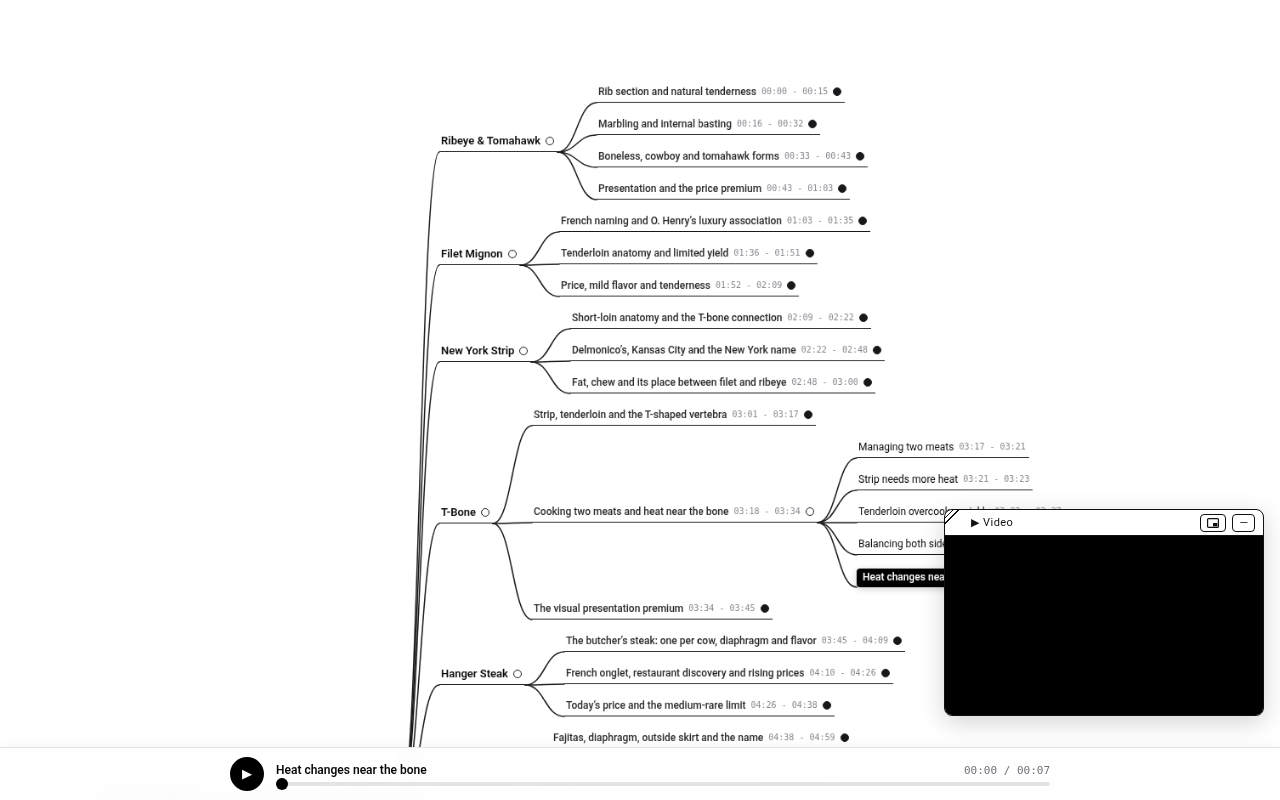
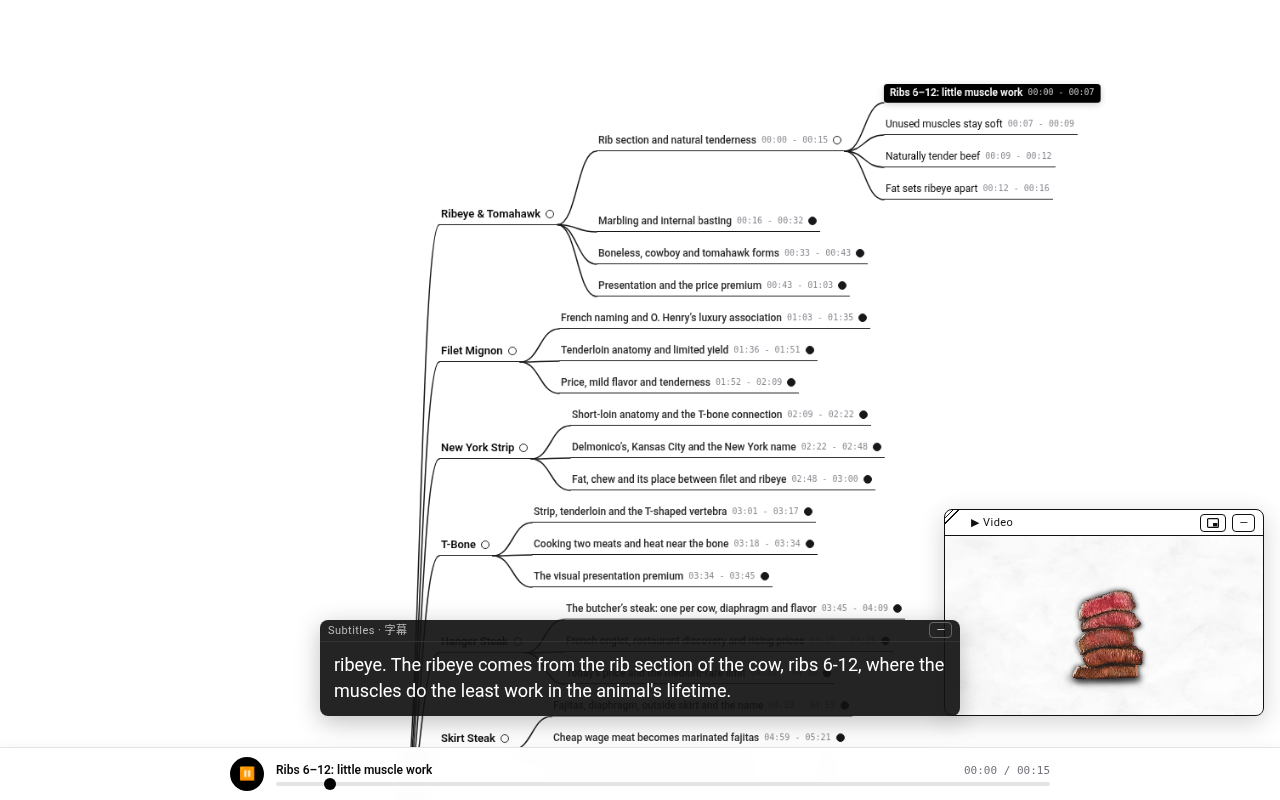
Seamless per-topic playback + subtitle window (page)

Changed region(s): [[0.1875, 0.0938, 1.0, 1.0]]

diff --git a/index.html b/index.html
@@ -310,6 +310,15 @@
   </div>
 
   <!-- Ultra-Minimalist Player Bar -->
+<style>
+.subbox{position:fixed;left:16px;bottom:84px;width:min(560px,calc(100vw - 32px));z-index:61;background:rgba(17,17,17,.92);color:#fff;border-radius:8px;box-shadow:0 6px 24px rgba(0,0,0,.25);touch-action:none;user-select:none}
+.subbox .sb{display:flex;align-items:center;height:22px;padding:0 8px;font-size:11px;letter-spacing:.04em;color:#bbb;cursor:move;border-bottom:1px solid #333}
+.subbox .sb span{flex:1}.subbox .sb button{background:none;border:1px solid #666;color:#ddd;border-radius:4px;font-size:11px;height:16px;line-height:14px;padding:0 6px;cursor:pointer}
+.subbox #subText{padding:10px 14px 12px;font-size:18px;line-height:1.45;min-height:1.45em;user-select:text}
+.subbox.min #subText{display:none}
+@media (max-width:640px){.subbox #subText{font-size:15px}}
+</style>
+<div class="subbox" id="subBox"><div class="sb" id="subBar"><span>Subtitles · 字幕</span><button id="subMin">—</button></div><div id="subText"></div></div>
     <div class="pip" id="pip">
     <div class="pip-rz" id="pipRz" title="Drag to resize"></div><div class="pip-bar" id="pipBar"><span class="t">▶ Video</span>
       <button id="pipNative" title="Browser picture-in-picture"><svg width="12" height="10" viewBox="0 0 12 10" fill="none" stroke="currentColor" stroke-width="1.2"><rect x="0.6" y="0.6" width="10.8" height="8.8" rx="1"/><rect x="6" y="5" width="4.4" height="3.4" fill="currentColor" stroke="none"/></svg></button><button id="pipToggle" title="Collapse / expand">—</button></div>
@@ -761,59 +770,58 @@
       renderMindmap();
     }
 
+    const LEAF = {"s001": {"topic": "t01", "s": 0, "text": "ribeye. The ribeye comes from the rib section of the cow, ribs 6-12, where the muscles do the least work in the animal's lifetime."}, "s002": {"topic": "t01", "s": 6.93, "text": "Muscles that don't work don't toughen."}, "s003": {"topic": "t01", "s": 8.9, "text": "The result is beef so naturally tender, it needs no help."}, "s004": {"topic": "t01", "s": 12.15, "text": "But what separates the ribeye from every other tender cut is the fat."}, "s005": {"topic": "t02", "s": 0, "text": "The ribeye carries the highest intramuscular fat content of any commercially available steak, distributed in thin white threads throughout the red muscle in a pattern that looks under the right light, like marble."}, "s006": {"topic": "t02", "s": 10.24, "text": "When heat hits that fat, it doesn't render away."}, "s007": {"topic": "t02", "s": 12.52, "text": "It melts into the surrounding muscle fibers, basting the meat from the inside out during cooking."}, "s008": {"topic": "t03", "s": 0, "text": "The ribeye is sold in two forms, bone in and boneless."}, "s009": {"topic": "t03", "s": 3.63, "text": "The bone-in version is called a cowboy ribeye."}, "s010": {"topic": "t03", "s": 5.95, "text": "When the rib bone is left long, extending 6-8 inches past the meat, it becomes a tomahawk."}, "s011": {"topic": "t04", "s": 0, "text": "The tomahawk is the same steak in every way that matters."}, "s012": {"topic": "t04", "s": 2.73, "text": "The bone does not meaningfully contribute to flavor."}, "s013": {"topic": "t04", "s": 4.88, "text": "The tomahawk exists almost entirely as presentation, a design choice by the beef industry to create a cut dramatic enough to photograph."}, "s014": {"topic": "t04", "s": 11.56, "text": "Steakhouses charge $80 to $150 for a tomahawk and plate it standing upright."}, "s015": {"topic": "t04", "s": 16.58, "text": "The meat cost the same as a standard ribeye."}, "s016": {"topic": "t04", "s": 18.6, "text": "The theater costs the rest,"}, "s017": {"topic": "t05", "s": 0, "text": "filet mignon. The name means dainty filet in French."}, "s018": {"topic": "t05", "s": 3.43, "text": "But the French do not call beef tenderloin filet mignon in France. That term refers to pork."}, "s020": {"topic": "t05", "s": 9.28, "text": "The French name for beef tenderloin is tournedos."}, "s021": {"topic": "t05", "s": 11.82, "text": "The term filet mignon as applied to beef is American, popularized in 1906 by a short story writer named O. Henry, who used it as shorthand for luxury dining."}, "s022": {"topic": "t05", "s": 20.38, "text": "A character in his story, The Four Million wishes to eat filet mignon with champignons after coming into money."}, "s023": {"topic": "t05", "s": 25.33, "text": "O. Henry's usage planted the association between this cut and wealth so firmly in the American imagination that the steak has carried that image ever since."}, "s024": {"topic": "t06", "s": 0, "text": "The tenderloin is a long cylindrical muscle running along the spine that never bears weight and almost never moves."}, "s025": {"topic": "t06", "s": 5.73, "text": "A muscle that never works has no connective tissue and no toughness."}, "s026": {"topic": "t06", "s": 8.95, "text": "The filet mignon is cut from the narrow tail end of this muscle."}, "s027": {"topic": "t06", "s": 12.27, "text": "A single cow produces only about 500 grams of true filet mignon."}, "s028": {"topic": "t07", "s": 0, "text": "That scarcity, combined with the O. Henry mythology, is the entire explanation for its price."}, "s029": {"topic": "t07", "s": 5.23, "text": "The flavor is mild, the mildest of any premium steak, because there is almost no fat."}, "s030": {"topic": "t07", "s": 10.12, "text": "The fat is what carries flavor."}, "s031": {"topic": "t07", "s": 11.73, "text": "Filet mignon is the most tender steak on the menu, and by most steak connoisseurs, considered not the best tasting one."}, "s032": {"topic": "t08", "s": 0, "text": "New York strip. The New York strip is cut from the short loin directly behind the rib section from the longissimus muscle, one long strip running the length of the animal's back."}, "s033": {"topic": "t08", "s": 9.06, "text": "It is the other half of a T-bone or porterhouse steak, the side without the tenderloin."}, "s034": {"topic": "t09", "s": 0, "text": "Steakhouses in New York City popularized this cut in the 19th century, particularly Delmonico's, the restaurant on Manhattan's Pearl Street, widely considered the most influential steak restaurant in American history."}, "s035": {"topic": "t09", "s": 11.04, "text": "However, the strip actually originated in Kansas City, not New York."}, "s036": {"topic": "t09", "s": 14.89, "text": "The Kansas City Steakhouse industry makes a competing historical claim to this cut with enough documentation to be credible."}, "s037": {"topic": "t09", "s": 20.7, "text": "The name that stuck was New York because Manhattan's restaurants had better reach in the national press at the time."}, "s038": {"topic": "t10", "s": 0, "text": "The strip has less fat than the ribeye, but is firmer, with a more defined chew and a cleaner, more pronounced beef flavor."}, "s039": {"topic": "t10", "s": 6.03, "text": "It is the steakhouse cut that sits precisely between the butter tender filet and the fat rich ribeye, which is exactly why it is on every menu,"}, "s040": {"topic": "t11", "s": 0, "text": "T-bone. The T-bone steak is two steaks separated by a single T-shaped vertebra bone."}, "s041": {"topic": "t11", "s": 4.93, "text": "On the larger side is a portion of the New York strip."}, "s042": {"topic": "t11", "s": 7.29, "text": "On the smaller side is a portion of the tenderloin."}, "s043": {"topic": "t11", "s": 9.78, "text": "Both are cut together from the short loin as a single piece."}, "s044": {"topic": "t11", "s": 12.69, "text": "The name has no mythology behind it."}, "s045": {"topic": "t11", "s": 14.61, "text": "It is simply a bone shaped like the letter T."}, "s046": {"topic": "t12", "s": 0, "text": "Cooking a T-bone properly requires managing two different meats simultaneously."}, "s047": {"topic": "t12", "s": 3.64, "text": "The strip side needs more heat and more time."}, "s048": {"topic": "t12", "s": 5.92, "text": "The tenderloin side is thinner, has no fat, and over cooks in seconds."}, "s049": {"topic": "t12", "s": 9.52, "text": "Getting both right requires experience."}, "s050": {"topic": "t12", "s": 11.45, "text": "The bone itself conducts heat at a different rate than the surrounding muscle, creating a ring of different texture near the joint."}, "s051": {"topic": "t13", "s": 0, "text": "Restaurants charge significantly more for a T-bone than for the equivalent weight of strip or tenderloin sold separately, purely because the visual drama of the bone justifies the premium in the customer's mind."}, "s052": {"topic": "t14", "s": 0, "text": "Hanger steak. The hanger steak is called the butcher steak, because butchers kept it for themselves."}, "s053": {"topic": "t14", "s": 4.94, "text": "There is exactly one hanger steak per cow."}, "s054": {"topic": "t14", "s": 7.44, "text": "It hangs from the diaphragm between the last rib and the loin, the muscle that supports the diaphragm, and because it hangs rather than attaches to bone, it never bears weight and develops an unusual combination of tenderness and deep, almost mineral beef flavor."}, "s055": {"topic": "t14", "s": 20.59, "text": "For most of the 20th century, hanger steaks were not sold at retail in the United States."}, "s056": {"topic": "t15", "s": 0, "text": "Butchers ground them into burgers or took them home."}, "s057": {"topic": "t15", "s": 2.94, "text": "The cut was well known in French bistro cooking, where it is called onglet, and became popular in American restaurants. In the 1990s when chefs began sourcing obscure European cuts, once it appeared on restaurant menus, the retail price rose sharply and never came back down."}, "s059": {"topic": "t16", "s": 0, "text": "A steak that was free when no one wanted it now costs nearly as much as a strip."}, "s060": {"topic": "t16", "s": 4.24, "text": "The texture is firm with a pronounced grain and it must be cooked to medium rare maximum."}, "s061": {"topic": "t16", "s": 8.37, "text": "Any more and the single muscle fiber structure makes it tough and dry."}, "s062": {"topic": "t17", "s": 0, "text": "Skirt steak. Skirt steak is the cut that made fajitas."}, "s063": {"topic": "t17", "s": 3.35, "text": "The outside skirt and inside skirt come from the plate section of the cow, the area between the belly and the ribs, and they are part of the diaphragm muscle group."}, "s064": {"topic": "t17", "s": 10.8, "text": "The outside skirt is more tender and more prized."}, "s065": {"topic": "t17", "s": 13.39, "text": "The word skirt refers to the cuts long, thin, flat shape, like a skirt wrapped around the lower part of the carcass."}, "s066": {"topic": "t17", "s": 19.25, "text": "Even bulls, as butchers note, have them."}, "s067": {"topic": "t18", "s": 0, "text": "Skirt steak was historically one of the cheapest cuts because it is tough if cooked wrong and requires slicing thinly against the grain."}, "s068": {"topic": "t18", "s": 6.12, "text": "In south Texas in the 1930s, Mexican ranch workers called vaqueros received skirt steak as part of their wages because Anglo ranchers did not want it."}, "s069": {"topic": "t18", "s": 14.52, "text": "Those workers developed the preparation that became fajitas, marinated, grilled hot and fast, then sliced thin across the grain and served in tortillas."}, "s070": {"topic": "t19", "s": 0, "text": "The dish spread from south Texas through the 1970s and exploded nationally after a restaurant called Ninfa’s in Houston began serving it commercially in 1973."}, "s071": {"topic": "t19", "s": 8.86, "text": "By the late 1980s, fajitas were on every chain restaurant menu in America and the price of skirt steak quadrupled."}, "s072": {"topic": "t20", "s": 0, "text": "Flank steak. Flank steak is cut from the abdominal muscles of the cow, below the loin and behind the plate, and it is one of the few steaks named for where it sits on the animal, rather than for its shape, appearance or someone's name."}, "s073": {"topic": "t20", "s": 11.41, "text": "It is large, flat and has long muscle fibers running visibly in one direction."}, "s074": {"topic": "t20", "s": 15.41, "text": "Those fibers are what made flank steak cheap for most of its commercial history."}, "s075": {"topic": "t21", "s": 0, "text": "Cut with the grain and it chews like leather, cut against the grain and it becomes completely manageable."}, "s076": {"topic": "t21", "s": 4.99, "text": "The cut became famous through London broil, a dish that is itself famously confusing because London broil is a preparation method, not a cut."}, "s077": {"topic": "t21", "s": 11.72, "text": "The original London broil in American cookbooks from the early 20th century specifically calls for flank steak, marinated and broiled."}, "s078": {"topic": "t22", "s": 0, "text": "Over time, the term drifted and is now applied to multiple different cuts, none of which come from London. Flank steak prices roughly doubled between 2000 and 2015 as consumer interest in lean, flavorful, affordable cuts grew significantly."}, "s079": {"topic": "t23", "s": 0, "text": "Picanha. Picanha is Brazil's most important steak and was almost entirely unknown outside South America until the late 1990s."}, "s080": {"topic": "t23", "s": 7.66, "text": "It is cut from the rump cap, the biceps femoris muscle at the very top of the hindquarters with a thick triangular fat cap left intact."}, "s081": {"topic": "t23", "s": 14.61, "text": "The name comes from a metal spike attached to the end of a pole that Brazilian and Portuguese cowboys used to prod cattle on the rump during herding."}, "s082": {"topic": "t23", "s": 20.73, "text": "The specific part of the animal where the spike made contact became known as the picanha."}, "s083": {"topic": "t24", "s": 0, "text": "In the United States, this exact same piece of meat has historically been chopped up and sold as part of the round, the rump and the loin, three separate sections, because American butchers trim the fat cap off and divide the muscle into other cuts."}, "s085": {"topic": "t24", "s": 10.68, "text": "Brazilians do not trim the fat cap."}, "s086": {"topic": "t25", "s": 0, "text": "They score it, skewer the meat in a C shape with the fat cap facing outward and roast it over charcoal."}, "s087": {"topic": "t25", "s": 5.8, "text": "As the fat renders, it continuously basts the meat."}, "s088": {"topic": "t25", "s": 8.81, "text": "The result is a deeply savory juicy steak that requires only coarse sea salt."}, "s089": {"topic": "t26", "s": 0, "text": "The global expansion of Brazilian steakhouse chains Fogo de Chao, Texas de Brazil introduced picanha to American and European diners after 2000 and demand has been rising since."}, "s090": {"topic": "t26", "s": 10.04, "text": "It is now considered by many chefs to be one of the most undervalued cuts commercially available in Western markets."}, "s091": {"topic": "t27", "s": 0, "text": "Sirloin. Sirloin is surrounded by a legend that is almost certainly false."}, "s092": {"topic": "t27", "s": 4.48, "text": "The story holds that an English king, Henry VIII, James I and Charles II each have advocates, was so impressed by a loin roast that he drew his sword and knighted it, declaring it Sirloin from that day forward."}, "s093": {"topic": "t27", "s": 16.5, "text": "Every food historian who has investigated this story has concluded it almost certainly did not happen."}, "s094": {"topic": "t27", "s": 21.6, "text": "The first written record of the word Sirloin predates any of the king's most often named."}, "s095": {"topic": "t28", "s": 0, "text": "The word likely derives from the French Sirloin's Ser meaning over and long meaning loin, referring to the cuts position above the loin on the animal."}, "s096": {"topic": "t28", "s": 7.35, "text": "The English turned the French prefix into Ser and invented the knighting story sometime in the 17th century."}, "s097": {"topic": "t29", "s": 0, "text": "Sirloin comes from the rear section of the back just behind the short loin and ranges widely in quality."}, "s098": {"topic": "t29", "s": 5.62, "text": "Top Sirloin is lean, moderately tender and one of the best value premium stakes available."}, "s099": {"topic": "t29", "s": 10.65, "text": "Bottom Sirloin is tougher and less prized though the tri-tip, a triangular muscle cut from the bottom Sirloin, has developed a serious following in California since the 1950s."}, "s100": {"topic": "t30", "s": 0, "text": "Flat iron. The flat iron steak was discovered in a laboratory in 2002."}, "s101": {"topic": "t30", "s": 4.18, "text": "It did not exist as a commercially available cut before then. Two meat science professors, Chris Calkins at the University of Nebraska and Dwayne Johnson at the University of Florida, were commissioned by the National Cattlemen’s Beef Association to search the cow for cuts that could be brought to market."}, "s103": {"topic": "t30", "s": 18.63, "text": "The beef industry was in crisis."}, "s104": {"topic": "t30", "s": 20.03, "text": "Prices had dropped 25 to 50% between 1993 and 1996 due to oversupply."}, "s105": {"topic": "t31", "s": 0, "text": "The trade group solution was to make people fall in love with parts of the cow they were ignoring."}, "s106": {"topic": "t31", "s": 4.07, "text": "Calkins and Johnson spent four years systematically dissecting beef carcasses and evaluating 39 different muscles."}, "s107": {"topic": "t31", "s": 9.91, "text": "In the shoulder, the chuck primal, an area traditionally associated with cheap roasting cuts and ground beef. They found a muscle called the infraspinatus."}, "s109": {"topic": "t31", "s": 17.63, "text": "It was the second most tender muscle in the entire animal, just behind the tenderloin."}, "s110": {"topic": "t31", "s": 22.03, "text": "It had been overlooked for centuries because a thick seam of tough connective tissue ran directly through its center, making it worthless in its original form."}, "s111": {"topic": "t32", "s": 0, "text": "Calkins and Johnson figured out that if you remove that seam by splitting the muscle into two halves, you were left with a flat rectangular tender steak that tasted like a New York strip, but cost half the price."}, "s112": {"topic": "t32", "s": 9.74, "text": "The name came from the shape."}, "s113": {"topic": "t32", "s": 11.08, "text": "It looked like an old-fashioned metal clothes iron."}, "s114": {"topic": "t32", "s": 13.51, "text": "The NCBA launched it in 2001."}, "s115": {"topic": "t32", "s": 15.47, "text": "Applebee's put it on the menu."}, "s116": {"topic": "t32", "s": 17.09, "text": "By 2012, flat iron steak sales in the US were generating approximately $80 million per year."}, "s117": {"topic": "t33", "s": 0, "text": "Denver steak. The Denver steak was also discovered by Calkins and Johnson in that same 1998 research project, but its name has no connection to Denver, Colorado beyond marketing."}, "s118": {"topic": "t33", "s": 10.01, "text": "When the Cattlemen's beef check-off program needed a name for the fourth most tender muscle in the carcass, the serratus ventralis found deep under the shoulder blade. They chose Denver because it sounded American and appealing."}, "s120": {"topic": "t33", "s": 21.07, "text": "The cut was rolled out to the public in 2009."}, "s121": {"topic": "t34", "s": 0, "text": "It is heavily marbled, deeply flavorful, and almost unknown outside of specialist butchers and certain restaurant menus."}, "s122": {"topic": "t34", "s": 6.91, "text": "It sat virtually unrecognized for several years before food publications began writing about it in 2012."}, "s123": {"topic": "t34", "s": 12.74, "text": "Butchers in Italy and France had been cutting the same muscle for decades under different names."}, "s124": {"topic": "t35", "s": 0, "text": "In Japan, the same cut is called zabuton, meaning cushion or pillow, and it is used in high-end yakiniku restaurants specifically because its marbling profile in Wagyu beef is exceptional."}, "s125": {"topic": "t35", "s": 10.65, "text": "The Denver steak is considered the most heavily marbled muscle in the entire animal, more than the ribeye."}, "s126": {"topic": "t35", "s": 15.85, "text": "The beef industry still has not successfully convinced the general public to buy it."}, "s127": {"topic": "t36", "s": 0, "text": "Tri-tip. Tri-tip is a triangular cut from the bottom sirloin that was almost exclusively a California product for most of the 20th century."}, "s128": {"topic": "t36", "s": 7.73, "text": "It is sometimes called the California cut or Santa Maria steak."}, "s129": {"topic": "t36", "s": 10.98, "text": "The Santa Maria Valley in California developed a distinct barbecue tradition around this cut in the 1950s."}, "s130": {"topic": "t36", "s": 16.56, "text": "And for decades, tri-tip was barely known outside the state."}, "s131": {"topic": "t36", "s": 19.62, "text": "When supermarket buyers from other states encountered the cut in the 1980s and 1990s, they often sent it back as unfamiliar."}, "s132": {"topic": "t36", "s": 25.42, "text": "East Coast butchers routinely grounded into hamburger."}, "s133": {"topic": "t36", "s": 28.31, "text": "A 1987 New York Times article described tri-tip as a mystery cut that New Yorkers had never seen."}, "s134": {"topic": "t37", "s": 0, "text": "It weighs 500 to 900 grams, has good marbling, and is best cooked whole then sliced thin against the grain."}, "s135": {"topic": "t37", "s": 5.73, "text": "The grain runs in two different directions through the muscle, which means each end must be sliced at a different angle for optimal tenderness. A detail that trips up many home cooks encountering it for the first time."}, "s137": {"topic": "t38", "s": 0, "text": "Matsusaka. Matsusaka beef is considered by many Japanese connoisseurs to surpass Kobe, a statement that triggers fierce debate."}, "s138": {"topic": "t38", "s": 7.16, "text": "It comes from the Matsusaka area of Mie Prefecture and has been recognized as a premium product since the Taisho era, which ran from 1912 to 1926."}, "s139": {"topic": "t38", "s": 15.89, "text": "The cattle are exclusively virgin females. A requirement that distinguishes Matsusaka from every other premium Wagyu brand."}, "s141": {"topic": "t39", "s": 0, "text": "The theory is that cattle that have never been pregnant maintain a different hormonal profile that affects the development of intramuscular fat."}, "s142": {"topic": "t39", "s": 6.55, "text": "Matsusaka farmers are the origin of the story about playing classical music to cattle, feeding them beer to stimulate appetite, and massaging them with a shochu infused concoction to increase circulation and disperse fat evenly through the muscle."}, "s143": {"topic": "t40", "s": 0, "text": "Some farms in Matsusaka genuinely do this."}, "s144": {"topic": "t40", "s": 2.56, "text": "Others consider it marketing. The marbling scores for top Matsusaka beef regularly exceed what is required for the highest Kobe certification, and the fat is said to have a sweeter quality than Kobe's."}};
+    const TOPICS = {"t01": {"url": "clips/t01.mp4", "ids": ["s001", "s002", "s003", "s004"], "dur": 15.59}, "t02": {"url": "clips/t02.mp4", "ids": ["s005", "s006", "s007"], "dur": 17.49}, "t03": {"url": "clips/t03.mp4", "ids": ["s008", "s009", "s010"], "dur": 10.8}, "t04": {"url": "clips/t04.mp4", "ids": ["s011", "s012", "s013", "s014", "s015", "s016"], "dur": 19.97}, "t05": {"url": "clips/t05.mp4", "ids": ["s017", "s018", "s020", "s021", "s022", "s023"], "dur": 32.91}, "t06": {"url": "clips/t06.mp4", "ids": ["s024", "s025", "s026", "s027"], "dur": 16.28}, "t07": {"url": "clips/t07.mp4", "ids": ["s028", "s029", "s030", "s031"], "dur": 17.78}, "t08": {"url": "clips/t08.mp4", "ids": ["s032", "s033"], "dur": 13.75}, "t09": {"url": "clips/t09.mp4", "ids": ["s034", "s035", "s036", "s037"], "dur": 25.71}, "t10": {"url": "clips/t10.mp4", "ids": ["s038", "s039"], "dur": 13.12}, "t11": {"url": "clips/t11.mp4", "ids": ["s040", "s041", "s042", "s043", "s044", "s045"], "dur": 17.11}, "t12": {"url": "clips/t12.mp4", "ids": ["s046", "s047", "s048", "s049", "s050"], "dur": 16.96}, "t13": {"url": "clips/t13.mp4", "ids": ["s051"], "dur": 10.95}, "t14": {"url": "clips/t14.mp4", "ids": ["s052", "s053", "s054", "s055"], "dur": 25.15}, "t15": {"url": "clips/t15.mp4", "ids": ["s056", "s057"], "dur": 17.0}, "t16": {"url": "clips/t16.mp4", "ids": ["s059", "s060", "s061"], "dur": 12.05}, "t17": {"url": "clips/t17.mp4", "ids": ["s062", "s063", "s064", "s065", "s066"], "dur": 21.49}, "t18": {"url": "clips/t18.mp4", "ids": ["s067", "s068", "s069"], "dur": 22.32}, "t19": {"url": "clips/t19.mp4", "ids": ["s070", "s071"], "dur": 15.38}, "t20": {"url": "clips/t20.mp4", "ids": ["s072", "s073", "s074"], "dur": 19.5}, "t21": {"url": "clips/t21.mp4", "ids": ["s075", "s076", "s077"], "dur": 18.24}, "t22": {"url": "clips/t22.mp4", "ids": ["s078"], "dur": 12.97}, "t23": {"url": "clips/t23.mp4", "ids": ["s079", "s080", "s081", "s082"], "dur": 24.37}, "t24": {"url": "clips/t24.mp4", "ids": ["s083", "s085"], "dur": 12.5}, "t25": {"url": "clips/t25.mp4", "ids": ["s086", "s087", "s088"], "dur": 13.6}, "t26": {"url": "clips/t26.mp4", "ids": ["s089", "s090"], "dur": 15.45}, "t27": {"url": "clips/t27.mp4", "ids": ["s091", "s092", "s093", "s094"], "dur": 25.95}, "t28": {"url": "clips/t28.mp4", "ids": ["s095", "s096"], "dur": 12.78}, "t29": {"url": "clips/t29.mp4", "ids": ["s097", "s098", "s099"], "dur": 20.47}, "t30": {"url": "clips/t30.mp4", "ids": ["s100", "s101", "s103", "s104"], "dur": 25.41}, "t31": {"url": "clips/t31.mp4", "ids": ["s105", "s106", "s107", "s109", "s110"], "dur": 28.86}, "t32": {"url": "clips/t32.mp4", "ids": ["s111", "s112", "s113", "s114", "s115", "s116"], "dur": 22.74}, "t33": {"url": "clips/t33.mp4", "ids": ["s117", "s118", "s120"], "dur": 24.25}, "t34": {"url": "clips/t34.mp4", "ids": ["s121", "s122", "s123"], "dur": 17.71}, "t35": {"url": "clips/t35.mp4", "ids": ["s124", "s125", "s126"], "dur": 20.16}, "t36": {"url": "clips/t36.mp4", "ids": ["s127", "s128", "s129", "s130", "s131", "s132", "s133"], "dur": 33.52}, "t37": {"url": "clips/t37.mp4", "ids": ["s134", "s135"], "dur": 15.19}, "t38": {"url": "clips/t38.mp4", "ids": ["s137", "s138", "s139"], "dur": 22.69}, "t39": {"url": "clips/t39.mp4", "ids": ["s141", "s142"], "dur": 17.78}, "t40": {"url": "clips/t40.mp4", "ids": ["s143", "s144"], "dur": 12.39}};
+    let curTopic = null;
+    const subText = document.getElementById("subText");
+    function setSub(){ const n = PLAYABLE_NODES[currentIdx]; subText.textContent = n && LEAF[n.id] ? LEAF[n.id].text : ""; }
+    function expandTo(nodeId){ (function ex(n,path){ if(n.id===nodeId){ path.forEach(p=>p.collapsed=false); return true;} if(n.children){ for(const c of n.children){ if(ex(c,path.concat([n]))) return true; } } return false; })(TREE_DATA,[]); }
+    function loadTopic(tid, offset, play){
+      if (curTopic !== tid || !audioEl.src) {
+        curTopic = tid;
+        audioEl.loop = true;
+        audioEl.src = TOPICS[tid].url;
+        audioEl.addEventListener("loadedmetadata", () => { audioEl.currentTime = offset; if (play) audioEl.play().catch(()=>{}); }, { once: true });
+        audioEl.load();
+      } else {
+        audioEl.currentTime = offset;
+        if (play) audioEl.play().catch(()=>{});
+      }
+    }
     window.selectNode = function(nodeId) {
       const idx = PLAYABLE_NODES.findIndex(n => n.id === nodeId);
       if (idx === -1) return;
-
-      if (currentIdx === idx && audioEl.src && !audioEl.paused) {
-        audioEl.pause();
-        syncPlayerUI();
-        return;
-      }
-
+      if (currentIdx === idx && curTopic && !audioEl.paused) { audioEl.pause(); syncPlayerUI(); return; }
       currentIdx = idx;
-      (function expand(n,path){ if(n.id===nodeId){ path.forEach(p=>p.collapsed=false); return true;} if(n.children){ for(const c of n.children){ if(expand(c,path.concat([n]))) return true; } } return false; })(TREE_DATA,[]);
-      const node = PLAYABLE_NODES[currentIdx];
-      audioEl.src = getAudioUrl(node.id);
-      audioEl.play().catch(() => {});
-      syncPlayerUI();
+      expandTo(nodeId);
+      loadTopic(LEAF[nodeId].topic, LEAF[nodeId].s + 0.01, true);
+      setSub(); syncPlayerUI();
     };
-
     window.togglePlayPause = function() {
-      if (!audioEl.src) {
-        audioEl.src = getAudioUrl(PLAYABLE_NODES[currentIdx].id);
-      }
-      if (audioEl.paused) {
-        audioEl.play().catch(() => {});
-      } else {
-        audioEl.pause();
-      }
+      if (!curTopic) { const n = PLAYABLE_NODES[currentIdx]; loadTopic(LEAF[n.id].topic, LEAF[n.id].s, true); syncPlayerUI(); return; }
+      if (audioEl.paused) audioEl.play().catch(()=>{}); else audioEl.pause();
       syncPlayerUI();
     };
-
     audioEl.addEventListener("play", syncPlayerUI);
     audioEl.addEventListener("pause", syncPlayerUI);
-
+    function tick(){
+      if (curTopic && audioEl.readyState >= 1) {
+        const t = audioEl.currentTime, ids = TOPICS[curTopic].ids;
+        let id = ids[0];
+        for (const k of ids) { if (LEAF[k].s <= t) id = k; else break; }
+        const idx = PLAYABLE_NODES.findIndex(n => n.id === id);
+        if (idx !== currentIdx) { currentIdx = idx; expandTo(id); setSub(); syncPlayerUI(); }
+      }
+    }
+    (function loop(){ if (!audioEl.paused) tick(); requestAnimationFrame(loop); })();
+    audioEl.addEventListener("seeked", tick);
     audioEl.addEventListener("timeupdate", () => {
       if (audioEl.duration) {
         seekSlider.value = (audioEl.currentTime / audioEl.duration) * 100;
         nowTime.textContent = fmtSec(audioEl.currentTime) + " / " + fmtSec(audioEl.duration);
       }
     });
-
-    audioEl.addEventListener("loadedmetadata", () => {
-      nowTime.textContent = "00:00 / " + fmtSec(audioEl.duration);
-    });
-
-    audioEl.addEventListener("ended", () => {
-      const cur = PLAYABLE_NODES[currentIdx];
-      if (!cur) return;
-      const same = PLAYABLE_NODES.filter(n => n.topic === cur.topic);
-      const pos = same.findIndex(n => n.id === cur.id);
-      const nextId = same[(pos + 1) % same.length].id;
-      currentIdx = -1;
-      selectNode(nextId);
-    });
+    audioEl.addEventListener("loadedmetadata", () => { nowTime.textContent = fmtSec(audioEl.currentTime) + " / " + fmtSec(audioEl.duration); });
 
     seekSlider.addEventListener("input", () => {
       if (audioEl.duration) {
@@ -829,7 +837,7 @@
       transform.scale = window.innerWidth < 768 ? 0.65 : 0.85;
       requestUpdateTransform();
       renderMindmap();
-      audioEl.src = getAudioUrl(PLAYABLE_NODES[0].id);
+      setSub();
     }
 
     init();
@@ -866,6 +874,14 @@
   addEventListener("resize",()=>{const r=pip.getBoundingClientRect();if(!pip.style.width&&r.width<=maxW()&&r.right<=innerWidth&&r.bottom<=innerHeight)return;place(r.width,Math.min(r.right,innerWidth),Math.min(r.bottom,innerHeight));});
 })();
 
+</script>
+<script>
+(function(){const box=document.getElementById("subBox"),bar=document.getElementById("subBar");let d=null;
+["pointerdown","pointermove","pointerup","wheel","touchstart","touchmove","click","dblclick"].forEach(t=>box.addEventListener(t,e=>e.stopPropagation(),{passive:false}));
+bar.addEventListener("pointerdown",e=>{if(e.target.tagName==="BUTTON")return;const r=box.getBoundingClientRect();d={dx:e.clientX-r.left,dy:e.clientY-r.top};bar.setPointerCapture(e.pointerId);e.preventDefault();});
+bar.addEventListener("pointermove",e=>{if(!d)return;let x=Math.min(Math.max(0,e.clientX-d.dx),innerWidth-box.offsetWidth),y=Math.min(Math.max(0,e.clientY-d.dy),innerHeight-box.offsetHeight);box.style.left=x+"px";box.style.top=y+"px";box.style.bottom="auto";});
+bar.addEventListener("pointerup",()=>d=null);
+document.getElementById("subMin").addEventListener("click",e=>{box.classList.toggle("min");e.target.textContent=box.classList.contains("min")?"▢":"—";});})();
 </script>
 </body>
 </html>
